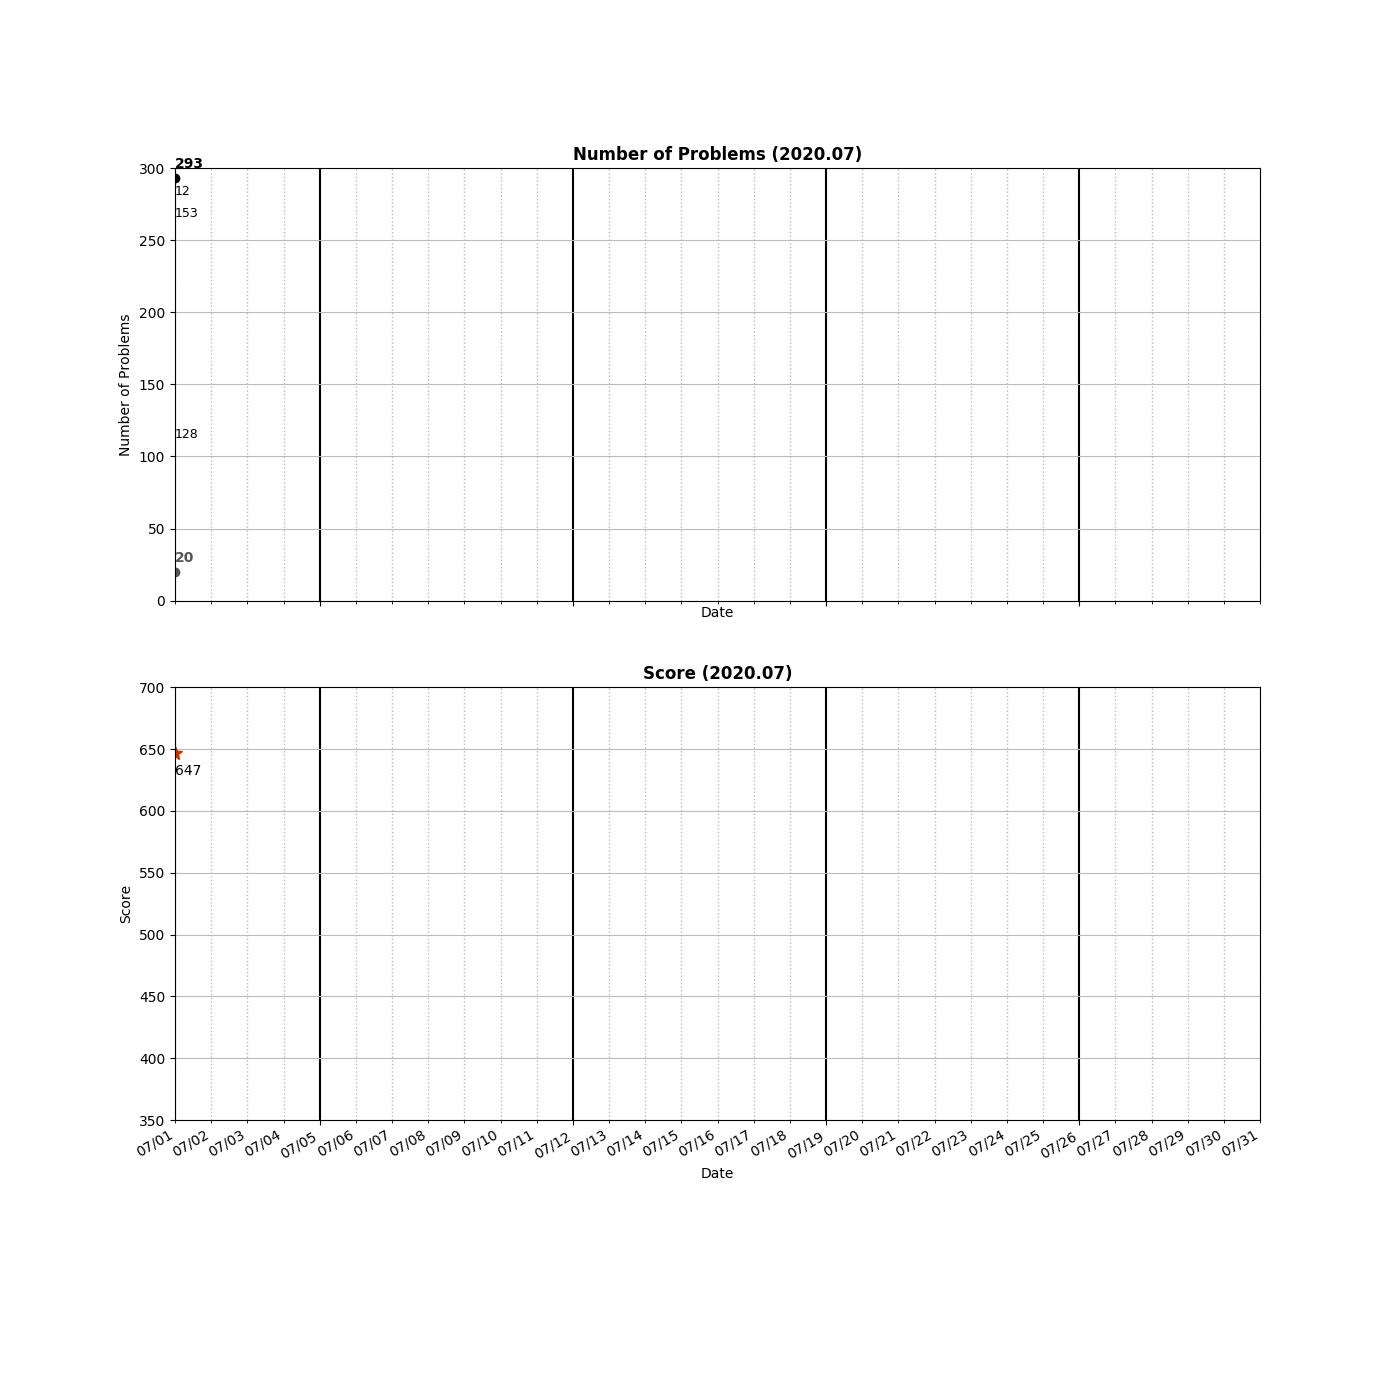
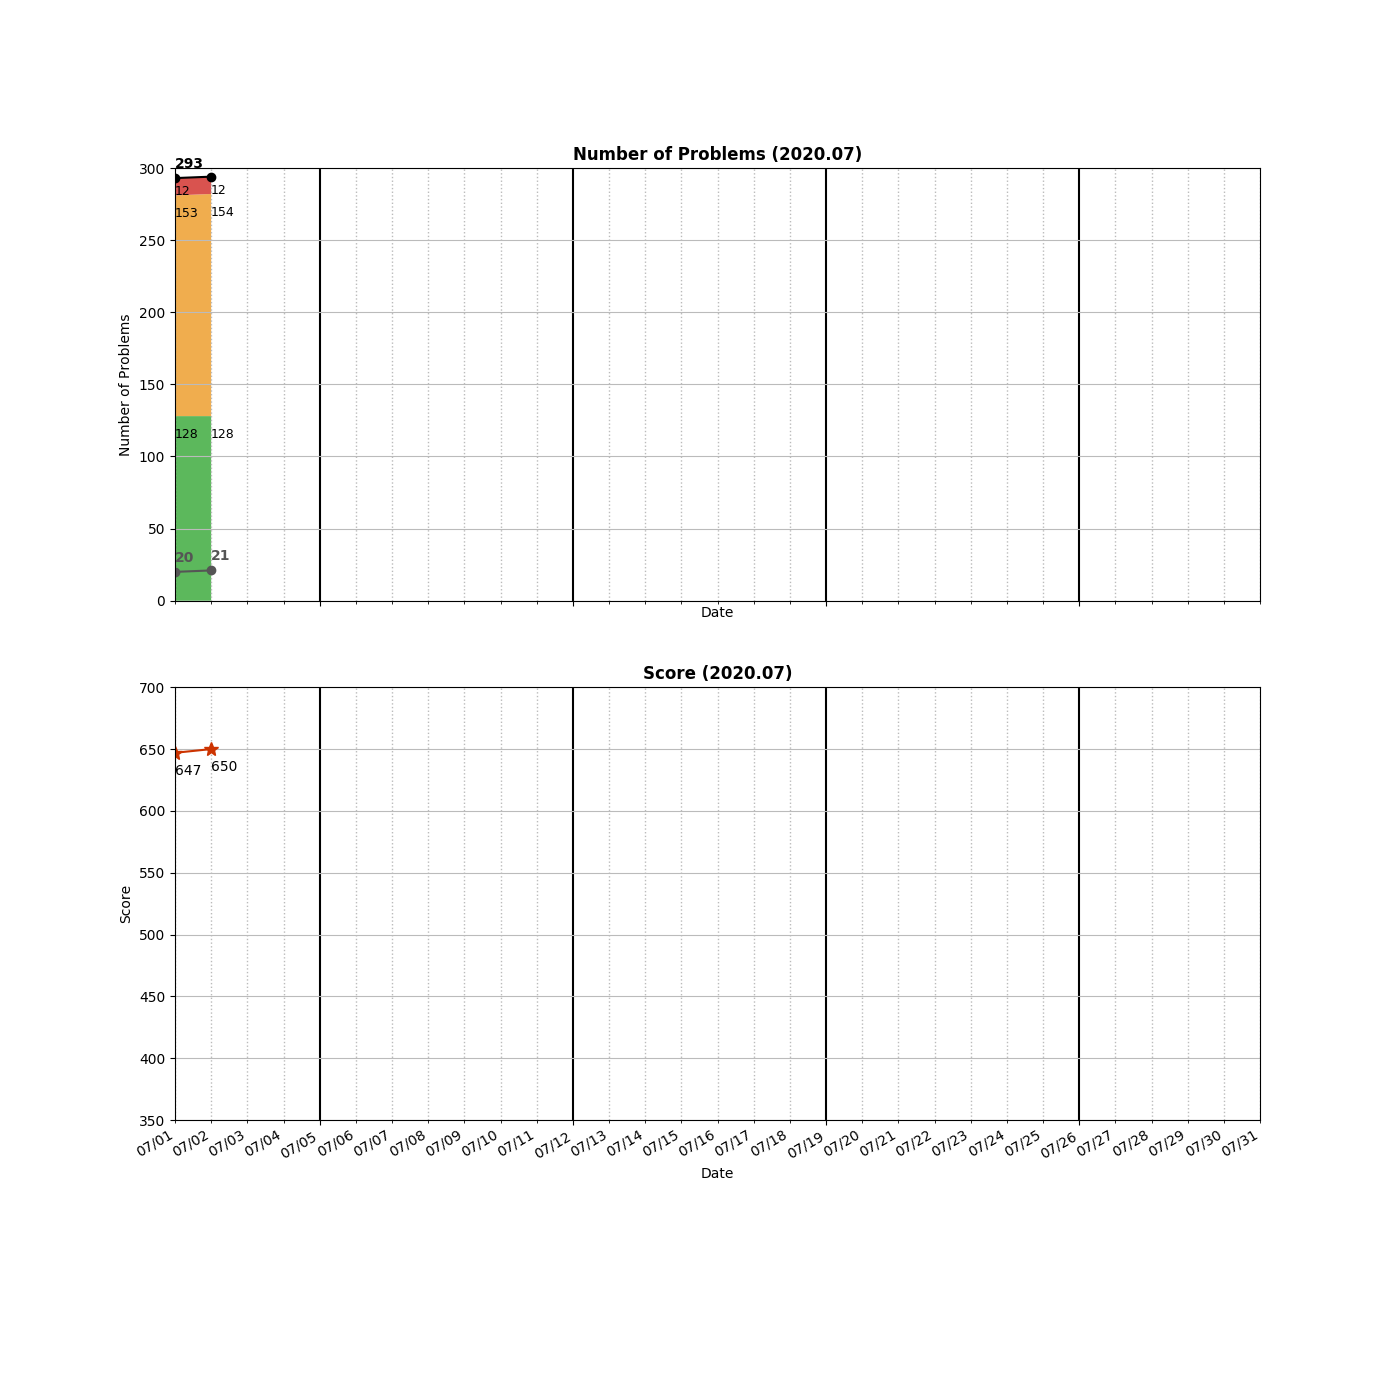
Reviewed _0518_CoinChange2.py

Changed region(s): [[0.1229, 0.1229, 0.1536, 0.43], [0.1229, 0.5221, 0.1536, 0.5529]]

diff --git a/README.md b/README.md
@@ -94,6 +94,7 @@ algo
 │   ├── _0079_WordSearch.py
 │   ├── _0089_GrayCode.py
 │   ├── _0090_Subsets2.py
+│   ├── _0130_SurroundedRegions.py
 │   ├── _0131_PalindromePartitioning.py
 │   ├── _0216_CombinationSum3.py
 │   ├── _0291_WordPattern2.py
@@ -317,7 +318,7 @@ algo
     ├── _0127_WordLadder_TLE.py
     └── _0127_WordLadder_wrong.py
 
-25 directories, 291 files
+25 directories, 292 files
 
 =====================================
 ============= Local Repo ============
@@ -413,6 +414,7 @@ _0127_WordLadder.py
 _0127_WordLadder_TLE.py
 _0127_WordLadder_wrong.py
 _0129_SumRootToLeafNumbers.py
+_0130_SurroundedRegions.py
 _0131_PalindromePartitioning.py
 _0133_CloneGraph.py
 _0134_GasStation.py
@@ -613,7 +615,7 @@ _1358_NumberOfSubstringsContainingAllThreeCharacters.py
 _1391_CheckIfThereIsAValidPathInAGrid.py
 _1427_PerformStringShifts.py
 =====================================
-Num of Python Practice:  290
+Num of Python Practice:  291
 
 
 =====================================
@@ -708,6 +710,7 @@ Num of Python Practice:  290
  0125 Valid Palindrome
  0127 Word Ladder
  0129 Sum Root to Leaf Numbers
+ 0130 Surrounded Regions
  0131 Palindrome Partitioning
  0133 Clone Graph
  0134 Gas Station
@@ -914,10 +917,10 @@ Num of Python Practice:  290
  1427 Perform String Shifts
 =====================================
 Solved / Total (Easy)  :  128 /  420
-Solved / Total (Medium):  153 /  765
+Solved / Total (Medium):  154 /  767
 Solved / Total (Hard)  :   12 /  314
-Solved / Total (All)   :  293 / 1499
-Total Score            :  647
+Solved / Total (All)   :  294 / 1501
+Total Score            :  650
 =====================================
 
 ```

diff --git a/ProblemType.md b/ProblemType.md
@@ -22,7 +22,6 @@
 - 0674  Longest Continuous Increasing Subsequence (連續)
 - 1143  Longest Common Subsequence //還沒寫
 
-
 ## Sliding Window: 
 - 0076  Minimum Window Substring
 - 0239  Sliding Window Maximum
